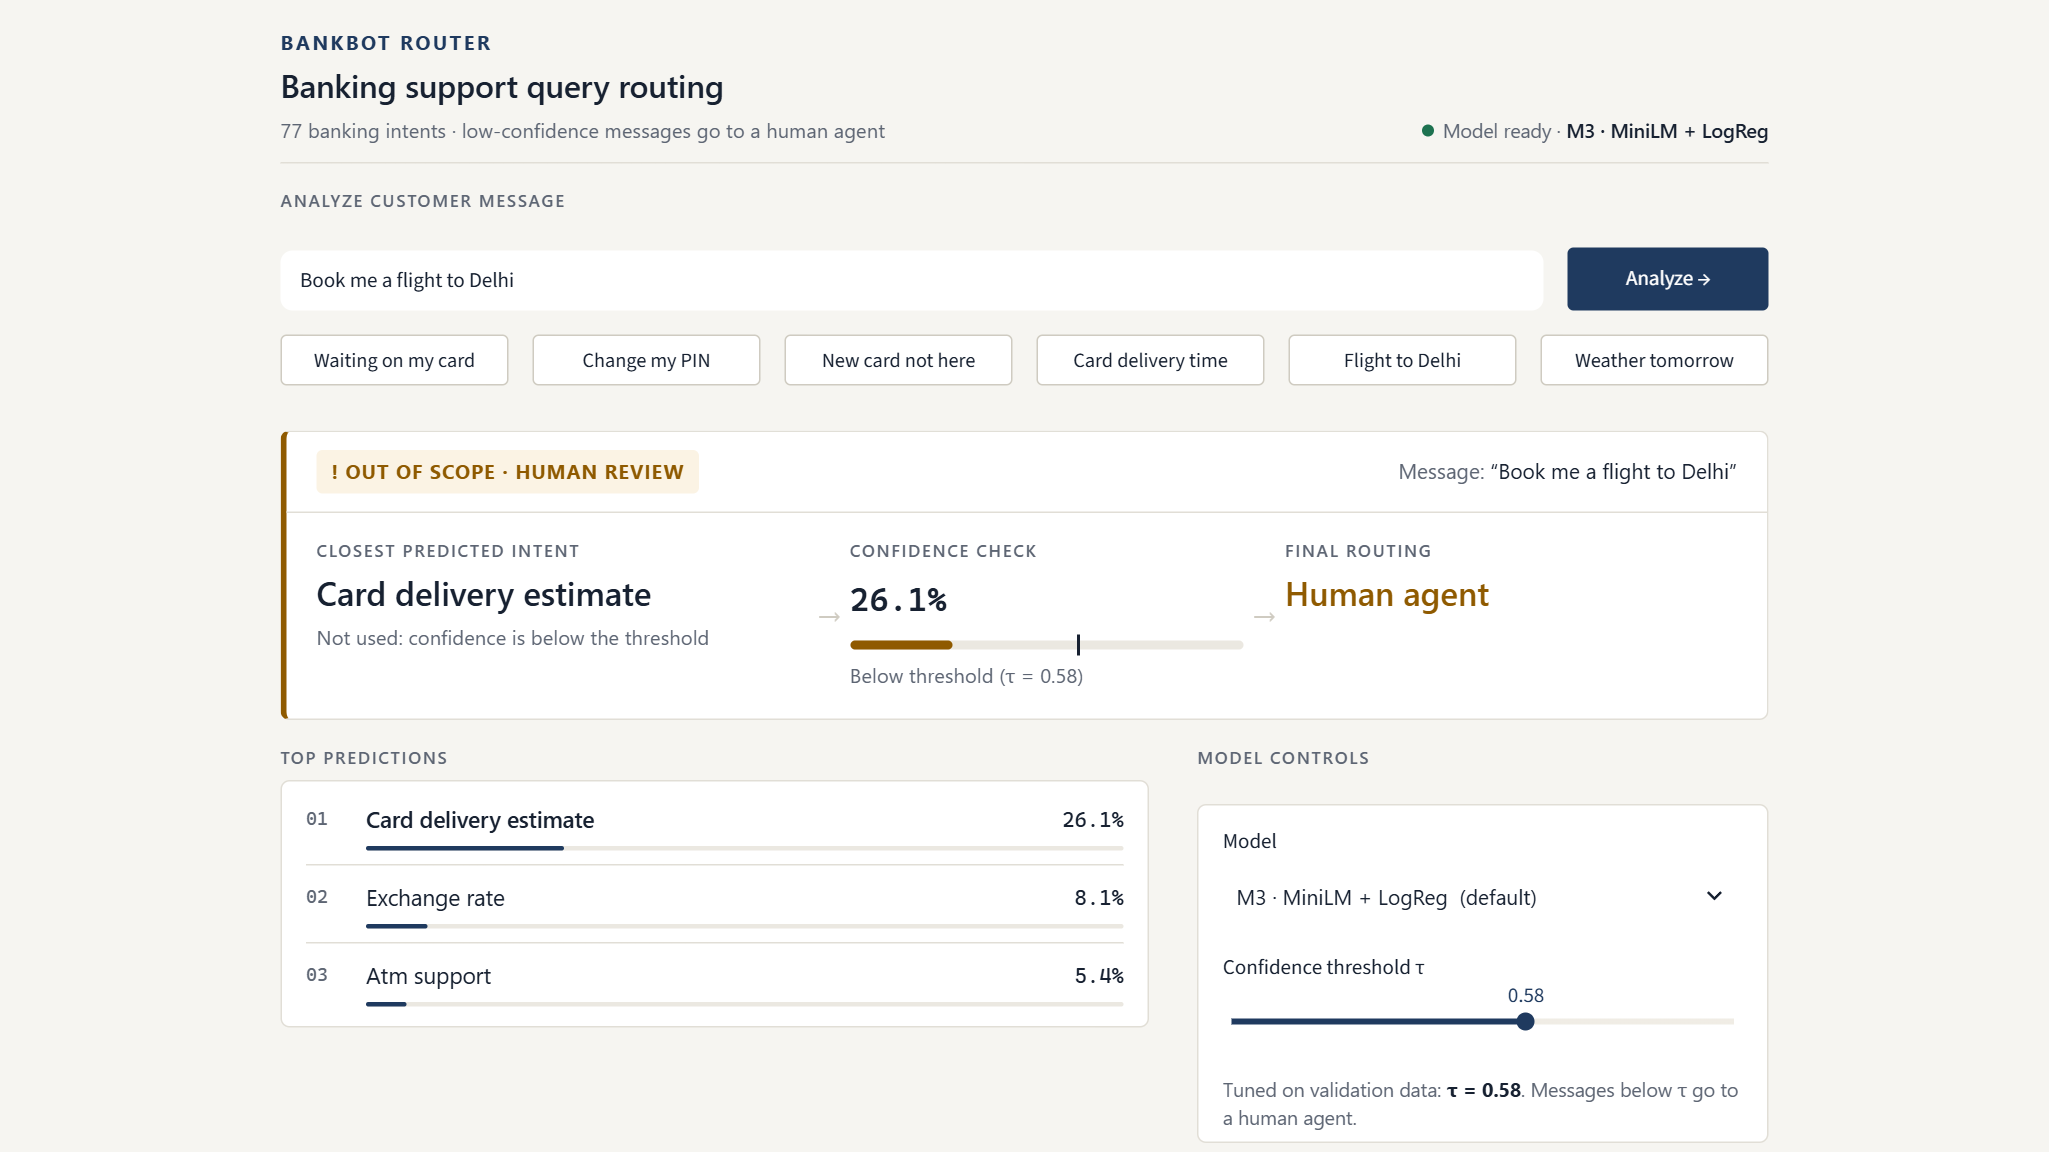
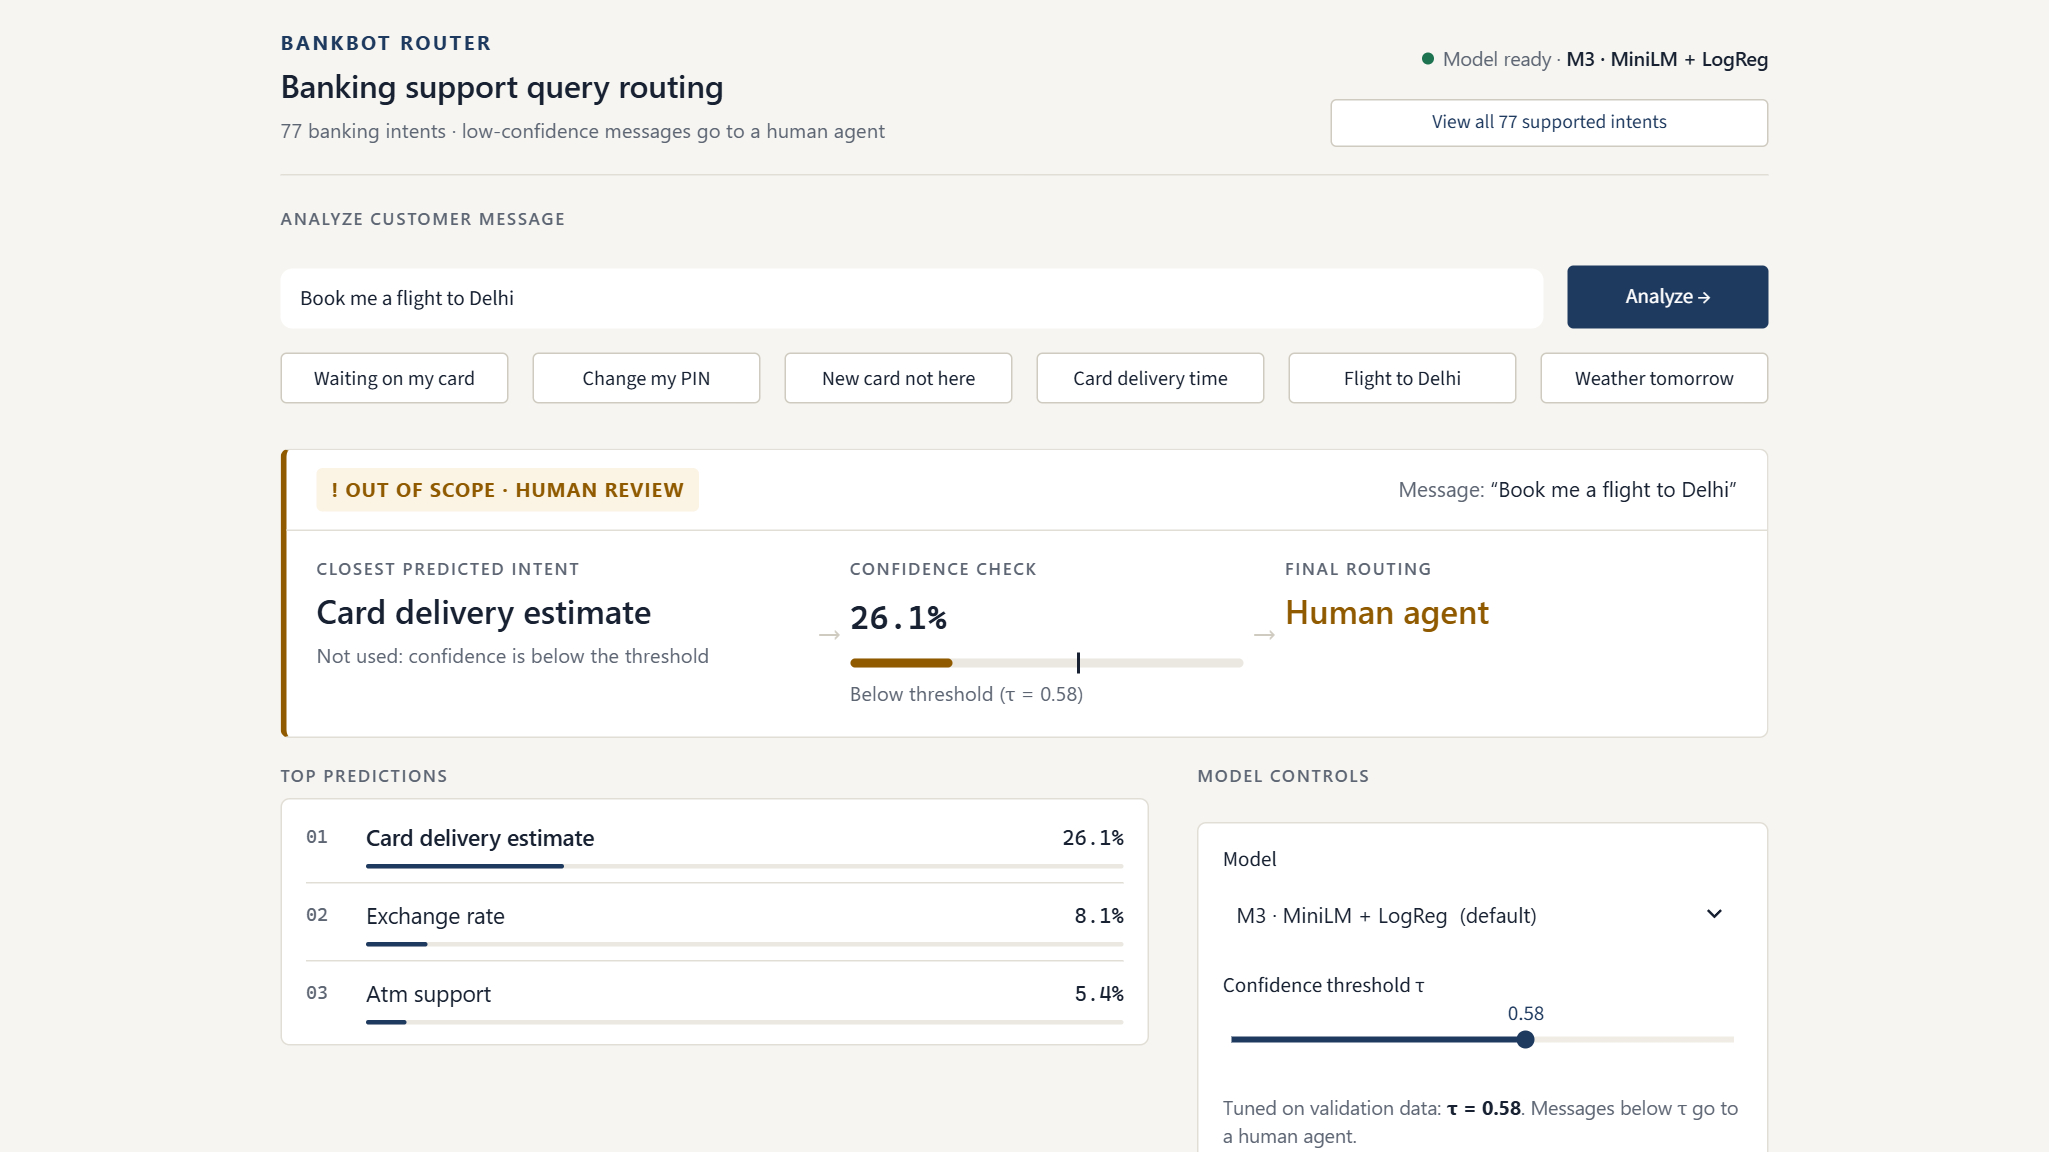
UI: supported-intents table (77 intents with per-intent test scores) and model summary line

diff --git a/app/streamlit_app.py b/app/streamlit_app.py
@@ -16,6 +16,7 @@ import streamlit as st
 sys.path.insert(0, str(Path(__file__).resolve().parents[1]))   # make config / src importable
 import config
 from src import predict
+from src.utils import load_json
 import ui
 
 st.set_page_config(page_title="BankBot Router", layout="wide")
@@ -51,6 +52,59 @@ def short_name(key):
     return config.MODEL_NAMES[key].replace(" ", " · ", 1)
 
 
+@st.cache_data
+def read_csv(name):
+    path = config.RESULTS / name
+    return pd.read_csv(path) if path.exists() else None
+
+
+def model_summary(key):
+    """One line of test-set facts for the selected model, read from results/ (nothing computed here)."""
+    parts = []
+    res, oos, cost = read_csv("results_table.csv"), read_csv("oos_results.csv"), read_csv("cost_table.csv")
+    if res is not None and key in set(res["model"]):
+        parts.append(f"Test macro-F1 <b>{res.set_index('model').loc[key, 'macro_f1']:.4f}</b>")
+    if oos is not None and key in set(oos["model"]):
+        parts.append(f"OOS recall <b>{oos.set_index('model').loc[key, 'oos_recall']:.3f}</b>")
+    if cost is not None and key in set(cost["model"]):
+        parts.append(f"<b>{cost.set_index('model').loc[key, 'median_latency_ms_cpu_batch1']:.2f} ms</b>/query on CPU")
+    return " · ".join(parts)
+
+
+@st.dialog("Supported intents", width="large")
+def intents_dialog(key, predicted):
+    """All 77 intents with training-set size and the selected model's per-intent test scores."""
+    stats = load_json(config.RESULTS / "dataset_stats.json") if (config.RESULTS / "dataset_stats.json").exists() else {}
+    train_counts = stats.get("banking77", {}).get("train_per_class_counts", {})
+    pc = read_csv(f"per_class_f1_{key}.csv")
+    table = pd.DataFrame({"label": predict.LABELS})
+    table["Intent"] = table["label"].map(predict.readable)
+    table["Training examples"] = table["label"].map(train_counts)
+    table = table.sort_values("Intent", key=lambda s: s.str.lower())
+    if pc is not None:
+        table = table.merge(pc[["label", "f1", "precision", "recall"]], on="label", how="left") \
+                     .rename(columns={"f1": "Test F1", "precision": "Precision", "recall": "Recall"})
+    st.html(f'<div class="bb-small">The router can send a message to any of these <b>{len(table)}</b> BANKING77 '
+            f'intents; anything else should go to a human agent. Scores are for <b>{short_name(key)}</b> on the '
+            'official test set (40 queries per intent); training counts are from the official training file.</div>')
+    if predicted:
+        row = table[table["label"] == predicted]
+        if len(row) and "Test F1" in row:
+            st.html(f'<div class="bb-small" style="margin-top:6px">Current prediction: <b>{predict.readable(predicted)}</b>'
+                    f' · test F1 {row["Test F1"].iloc[0]:.2f} for this model.</div>')
+    search = st.text_input("Search intents", placeholder="e.g. card, transfer, top up", label_visibility="collapsed")
+    if search:
+        table = table[table["label"].str.contains(search.strip().replace(" ", "_"), case=False)
+                      | table["Intent"].str.contains(search.strip(), case=False)]
+    cols = [c for c in ["Intent", "Training examples", "Test F1", "Precision", "Recall"] if c in table]
+    st.dataframe(table[cols], hide_index=True, use_container_width=True, height=420,
+                 column_config={"Test F1": st.column_config.ProgressColumn("Test F1", min_value=0.0, max_value=1.0,
+                                                                            format="%.2f"),
+                                "Precision": st.column_config.NumberColumn(format="%.2f"),
+                                "Recall": st.column_config.NumberColumn(format="%.2f")})
+    st.caption(f"{len(table)} intents shown. Click a column header to sort, e.g. by Test F1 to see the hardest intents.")
+
+
 # ---------------- state: the message currently being analysed ----------------
 def analyse(text):
     st.session_state["query"] = text
@@ -72,7 +126,12 @@ if "query" not in st.session_state:          # first load: optional URL paramete
     st.session_state["model_key"] = m if m in models else default
 
 # ---------------- page skeleton (filled below, so controls can sit under the result) ----------------
-header_slot = st.empty()
+h_left, h_right = st.columns([3, 1.3], vertical_alignment="bottom")
+h_left.html(ui.header_title())
+status_slot = h_right.empty()
+with h_right.container(key="intents"):
+    open_intents = st.button(f"View all {len(predict.LABELS)} supported intents", use_container_width=True)
+st.html(ui.RULE)
 
 st.html('<div class="bb-eyebrow">Analyze customer message</div>')
 c_in, c_btn = st.columns([6, 1], vertical_alignment="bottom")
@@ -106,8 +165,14 @@ with c_ctrl:
             tau = None
             st.html('<div class="bb-small">LinearSVC gives no probabilities, so this model has '
                     '<b>no confidence gate</b>: every message is routed to its top intent.</div>')
+        summary = model_summary(key)
+        if summary:
+            st.html(f'<div class="bb-small" style="margin-top:6px">{summary}</div>')
 
-header_slot.html(ui.header(short_name(key)))
+status_slot.html(ui.header_status(short_name(key)))
+if open_intents:   # opened here because it needs the selected model
+    analysed = st.session_state.get("analyzed", "").strip()
+    intents_dialog(key, predict.classify(model, analysed, 0.0)["intent"] if analysed else None)
 
 # ---------------- routing decision + top predictions ----------------
 query = st.session_state.get("analyzed", "").strip()

diff --git a/app/ui.py b/app/ui.py
@@ -117,6 +117,10 @@ html, body, .stApp { font-family: var(--bb-font); }
 .st-key-analyze button { border-radius: 4px; background: var(--bb-accent); border: 1px solid var(--bb-accent);
                          color: #fff; font-weight: 600; min-height: 42px; }
 .st-key-analyze button:hover { background: #172d4a; color: #fff; }
+.st-key-intents button { border-radius: 4px; border: 1px solid var(--bb-border-strong); background: var(--bb-surface);
+                         color: var(--bb-accent); font-weight: 600; min-height: 32px; padding: 2px 10px; }
+.st-key-intents button p { font-size: 13px; }
+.st-key-intents button:hover { border-color: var(--bb-accent); }
 .st-key-controls { background: var(--bb-surface); border: 1px solid var(--bb-border); border-radius: var(--bb-radius);
                    padding: 12px 16px 6px; }
 </style>
@@ -127,16 +131,20 @@ def pct(x):
     return f"{x * 100:.1f}%"
 
 
-def header(model_name):
-    return f"""
-<div class="bb-header">
-  <div>
-    <div class="bb-brand">BANKBOT ROUTER</div>
-    <div class="bb-title">Banking support query routing</div>
-    <div class="bb-subtitle">77 banking intents · low-confidence messages go to a human agent</div>
-  </div>
-  <div class="bb-ready"><span class="bb-dot"></span>Model ready · <b>{escape(model_name)}</b></div>
+def header_title():
+    return """
+<div>
+  <div class="bb-brand">BANKBOT ROUTER</div>
+  <div class="bb-title">Banking support query routing</div>
+  <div class="bb-subtitle">77 banking intents · low-confidence messages go to a human agent</div>
 </div>"""
+
+
+def header_status(model_name):
+    return f'<div class="bb-ready" style="text-align:right"><span class="bb-dot"></span>Model ready · <b>{escape(model_name)}</b></div>'
+
+
+RULE = '<div style="border-bottom:1px solid var(--bb-border); margin: 2px 0 4px"></div>'
 
 
 def empty_result():

diff --git a/docs/demo_script.md b/docs/demo_script.md
@@ -10,6 +10,8 @@ Open http://localhost:8501. The app loads saved models only (CPU, no training). 
 ## Layout (redesigned UI)
 One page, top to bottom: message box + **Analyze →** (Enter also works) → six example buttons → **routing decision panel** (model prediction → confidence check against τ → final routing) → top-3 predictions beside the **model controls** (model selector, τ slider) → "How the system works" and "Model results" expanders. The result stays on screen when you switch model or move τ, so you can show the routing change directly.
 
+**View all 77 supported intents** (top right) opens a searchable table of every intent the router can route to, with its number of training examples and the selected model's test F1 / precision / recall (from `results/per_class_f1_<model>.csv`); the current prediction is highlighted above the table. Useful when someone asks "what can it actually handle?". The model controls also show the selected model's test macro-F1, OOS recall and CPU latency (from `results/`).
+
 Example buttons show short labels; the text sent to the model is exactly the original example text (hover a button to see it).
 
 ## What should happen (default model M3 MiniLM + LogReg, tuned τ = 0.58)
@@ -44,6 +46,7 @@ Screenshots (redesigned UI, 1366×768, taken headlessly from the running app; M3
 - `docs/screenshots/demo_supported.png`: "I am still waiting on my card" (supported)
 - `docs/screenshots/demo_tricky.png`: "How long does a card delivery take?"
 - `docs/screenshots/demo_oos.png`: "Book me a flight to Delhi" (out of scope)
+- `docs/screenshots/demo_intents.png`: the supported-intents table (M3)
 - `docs/screenshots/demo_m4.png`: "Book me a flight to Delhi" with M4 · DistilBERT selected (94.8% but below τ = 0.97)
 - `docs/screenshots/demo_new_card.png`: "my new card still hasn't shown up" (false reject)
 

diff --git a/results/run_log.md b/results/run_log.md
@@ -65,3 +65,4 @@
 | 2026-09-29 00:42:02 | `python -m src.demo_check` | CPU: AMD64 Family 25 Model 116 Stepping 1, AuthenticAMD (16 threads); GPU: NVIDIA GeForce RTX 4060 Laptop GPU | 0.0 | default m3_sbert_lr: FAILING: my new card still hasn't shown up; other models failing: model; is_demo_default; tau; example_type; text; top_intent; confidence; expected_intent; intent_correct; decision; behaves_as_intended |
 | 2026-09-29 00:42:02 | `python run_all.py` | CPU: AMD64 Family 25 Model 116 Stepping 1, AuthenticAMD (16 threads); GPU: NVIDIA GeForce RTX 4060 Laptop GPU | 19.3 | all phases completed |
 | 2026-09-30 00:51:29 | `python -m src.demo_check` | CPU: AMD64 Family 25 Model 116 Stepping 1, AuthenticAMD (16 threads); GPU: NVIDIA GeForce RTX 4060 Laptop GPU | 0.0 | default m3_sbert_lr: FAILING: my new card still hasn't shown up; other models failing: model; is_demo_default; tau; example_type; text; top_intent; confidence; expected_intent; intent_correct; decision; behaves_as_intended |
+| 2026-09-30 01:10:19 | `python -m src.demo_check` | CPU: AMD64 Family 25 Model 116 Stepping 1, AuthenticAMD (16 threads); GPU: NVIDIA GeForce RTX 4060 Laptop GPU | 0.0 | default m3_sbert_lr: FAILING: my new card still hasn't shown up; other models failing: model; is_demo_default; tau; example_type; text; top_intent; confidence; expected_intent; intent_correct; decision; behaves_as_intended |

diff --git a/README.md b/README.md
@@ -9,6 +9,7 @@ python -m venv .venv
 pip install torch --index-url https://download.pytorch.org/whl/cu126   # CUDA build; use plain `pip install torch` on CPU-only machines
 pip install -r requirements.txt
 ```
+.venv\Scripts\python -m streamlit run app/streamlit_app.py
 
 ## Run order
 ```
